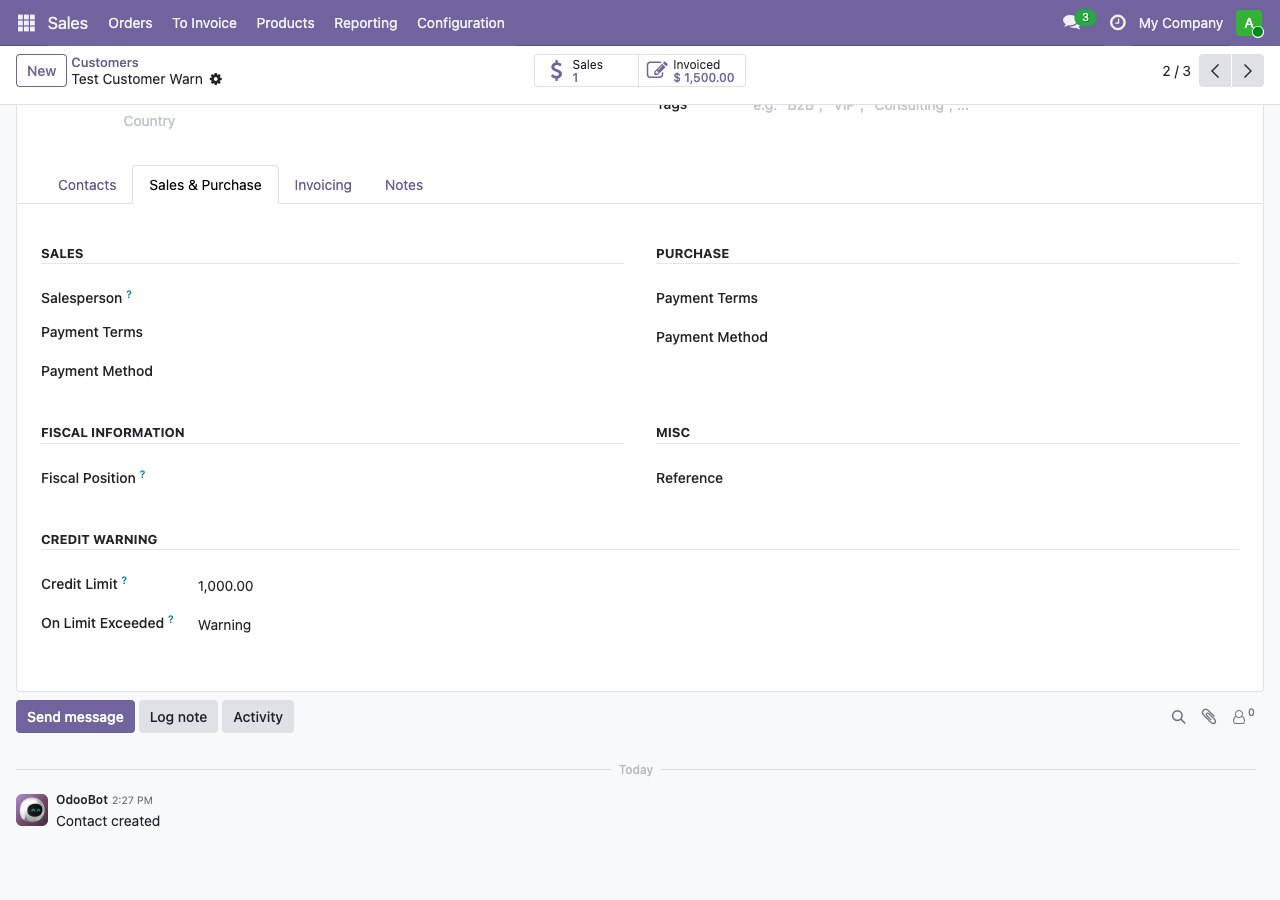
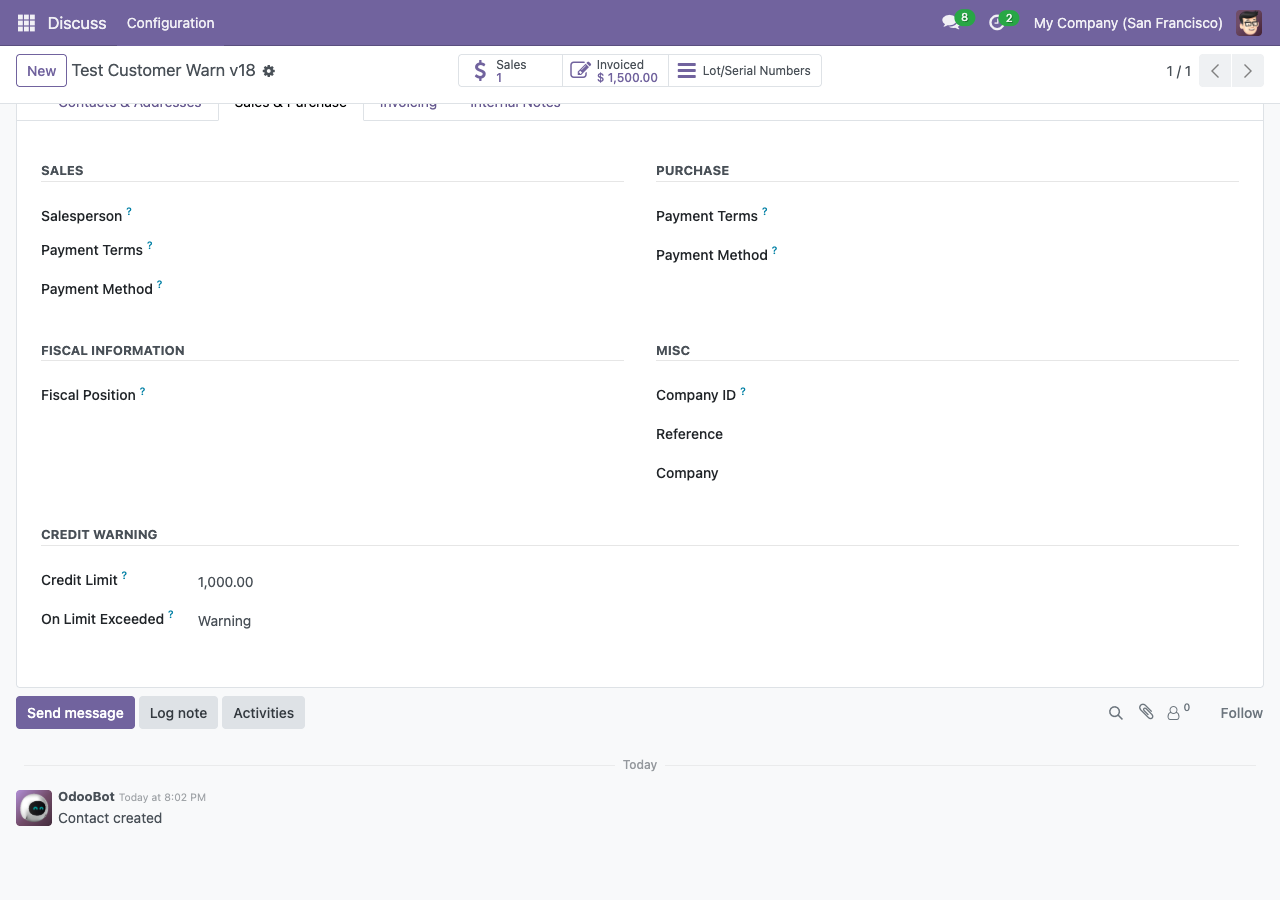
feat: port module to Odoo 18
- Update version to 18.0.1.0.0 in manifest
- Regenerate screenshots from Odoo 18 instance (port 8080)
- Update HTML description for Odoo 18
- Regenerate animated GIF banner from Odoo 18 screenshots
- Module tested and confirmed working on Odoo 18.0-20260528

diff --git a/partner_credit_warning/static/description/index.html b/partner_credit_warning/static/description/index.html
@@ -3,7 +3,7 @@
 <head>
 <meta charset="UTF-8">
 <meta name="viewport" content="width=device-width, initial-scale=1.0">
-<title>Customer Credit Warning on Sale Order — Odoo 19</title>
+<title>Customer Credit Warning on Sale Order — Odoo 18</title>
 </head>
 <body>
 
@@ -47,7 +47,7 @@
             <div class="d-flex align-items-center justify-content-between">
               <div>
                 <div style="font-size:14px; color:#64748b; font-weight:600; margin-bottom:4px">Odoo Version</div>
-                <div style="font-size:28px; font-weight:800; color:#ea580c">19.0</div>
+                <div style="font-size:28px; font-weight:800; color:#ea580c">18.0</div>
               </div>
               <div style="width:52px; height:52px; border-radius:50%; background:#fff7ed; display:flex; align-items:center; justify-content:center; font-size:24px">⚡</div>
             </div>
@@ -416,7 +416,7 @@
             </div>
             <div id="faq5" class="accordion-collapse collapse" data-bs-parent="#accordion_faq" style="border:1px solid #f8f8f8; border-radius:0 0 10px 10px">
               <p style="padding:14px 24px; font-size:15px; color:#64748b; line-height:1.65; margin:0">
-                No. This module is built specifically for <strong>Odoo 19 Community</strong>.
+                No. This module is built specifically for <strong>Odoo 18 Community</strong>.
                 It depends only on <code>sale_management</code> and <code>account</code>, both of which
                 are available in the Community edition. No Enterprise license required.
               </p>

diff --git a/partner_credit_warning/__manifest__.py b/partner_credit_warning/__manifest__.py
@@ -1,10 +1,10 @@
 {
     'name': 'Customer Credit Warning on Sale Order',
-    'version': '19.0.1.0.0',
+    'version': '18.0.1.0.0',
     'category': 'Sales/Sales',
     'summary': 'Warn or block sale order confirmation when customer exceeds credit limit — free Community alternative to Odoo Enterprise credit feature.',
     'description': """
-Customer Credit Warning on Sale Order for Odoo 19 (Free / LGPL-3)
+Customer Credit Warning on Sale Order for Odoo 18 (Free / LGPL-3)
 =================================================================
 - credit_limit field on each partner (0 = no limit)
 - Warn mode: popup lets salesperson confirm anyway or cancel
